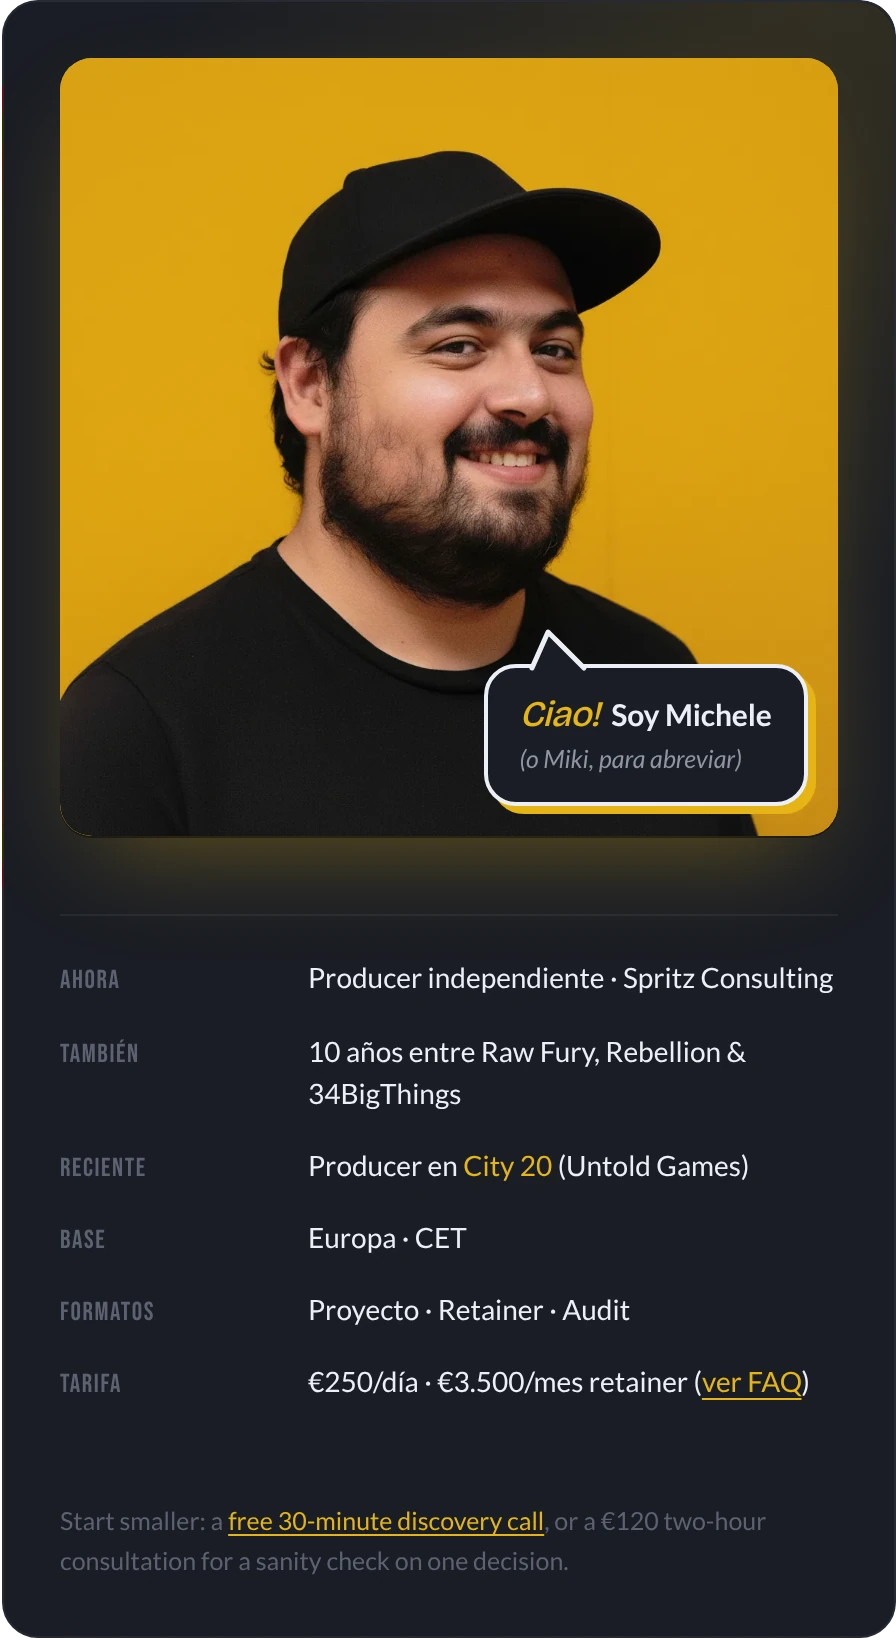
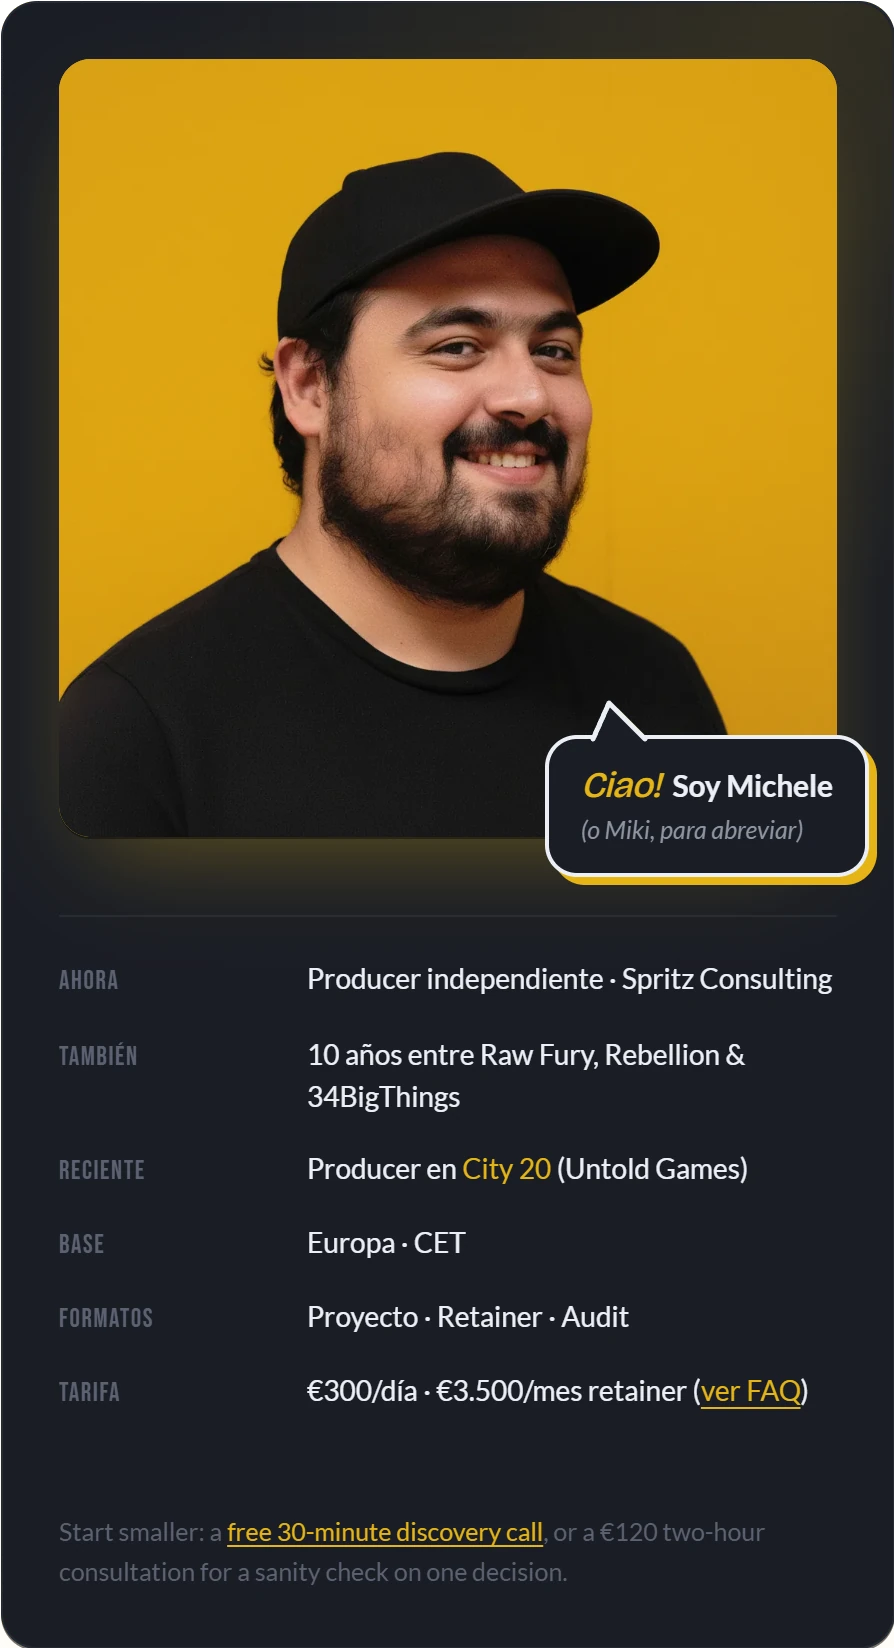
Lanyard: badge images show €300/day; version the badge assets
Recaptured card-{lang}-{theme}.webp and cards.json from the live hero card
(1440 wide, 2x), so the badge matches the new day rate. Badge asset URLs
now carry ?v=, since they load after the page and a hard refresh or the
CDN would otherwise keep serving the old images.

diff --git a/assets/js/lanyard.js b/assets/js/lanyard.js
@@ -24,6 +24,8 @@ const phone = matchMedia('(max-width: 900px)');     // phones keep the HTML card
 const THREE_URL = 'https://cdn.jsdelivr.net/npm/three@0.170.0/build/three.module.min.js';
 const RAPIER_URL = 'https://cdn.jsdelivr.net/npm/@dimforge/rapier3d-compat@0.14.0/rapier.es.js';
 const ASSETS = '/assets/img/lanyard/';
+// Bump whenever the card images or cards.json are regenerated, so browsers and the CDN fetch the new set.
+const ASSETS_V = '?v=20261008';
 
 // Values tuned in the lanyard lab.
 // size: share of the HTML card's height. topGap and bottomGap (px, desktop) keep the whole badge inside the first screen.
@@ -41,7 +43,7 @@ if (cardEl && hero && !phone.matches && webglOK() && params.get('badge') !== 'of
     idle(() => {
       Promise.all([
         import(THREE_URL), import(RAPIER_URL),
-        fetch(ASSETS + 'cards.json').then((r) => { if (!r.ok) throw new Error('cards.json ' + r.status); return r.json(); }),
+        fetch(ASSETS + 'cards.json' + ASSETS_V).then((r) => { if (!r.ok) throw new Error('cards.json ' + r.status); return r.json(); }),
         document.fonts.load('64px "Bebas Neue"'), document.fonts.load('400 64px "Bricolage Grotesque"'),
       ]).then(start).catch((e) => { console.warn('[lanyard] staying on the HTML card:', e); });
     }, { timeout: 2500 });
@@ -73,7 +75,7 @@ async function start([THREE, RAPIERmod, CARDS]) {
 
   /* ---------- Textures ---------- */
   const imgCache = {};
-  const loadImg = (key) => imgCache[key] || (imgCache[key] = new Promise((res, rej) => { const i = new Image(); i.decoding = 'async'; i.onload = () => res(i); i.onerror = rej; i.src = ASSETS + 'card-' + key + '.webp'; }));
+  const loadImg = (key) => imgCache[key] || (imgCache[key] = new Promise((res, rej) => { const i = new Image(); i.decoding = 'async'; i.onload = () => res(i); i.onerror = rej; i.src = ASSETS + 'card-' + key + '.webp' + ASSETS_V; }));
   function texFrom(src) { const t = new THREE.Texture(src); t.colorSpace = THREE.SRGBColorSpace; t.anisotropy = maxAniso; t.needsUpdate = true; return t; }
 
   // The slot is punched through the card's top margin, above the portrait. Sizes are in card CSS px (card is 447 wide).
